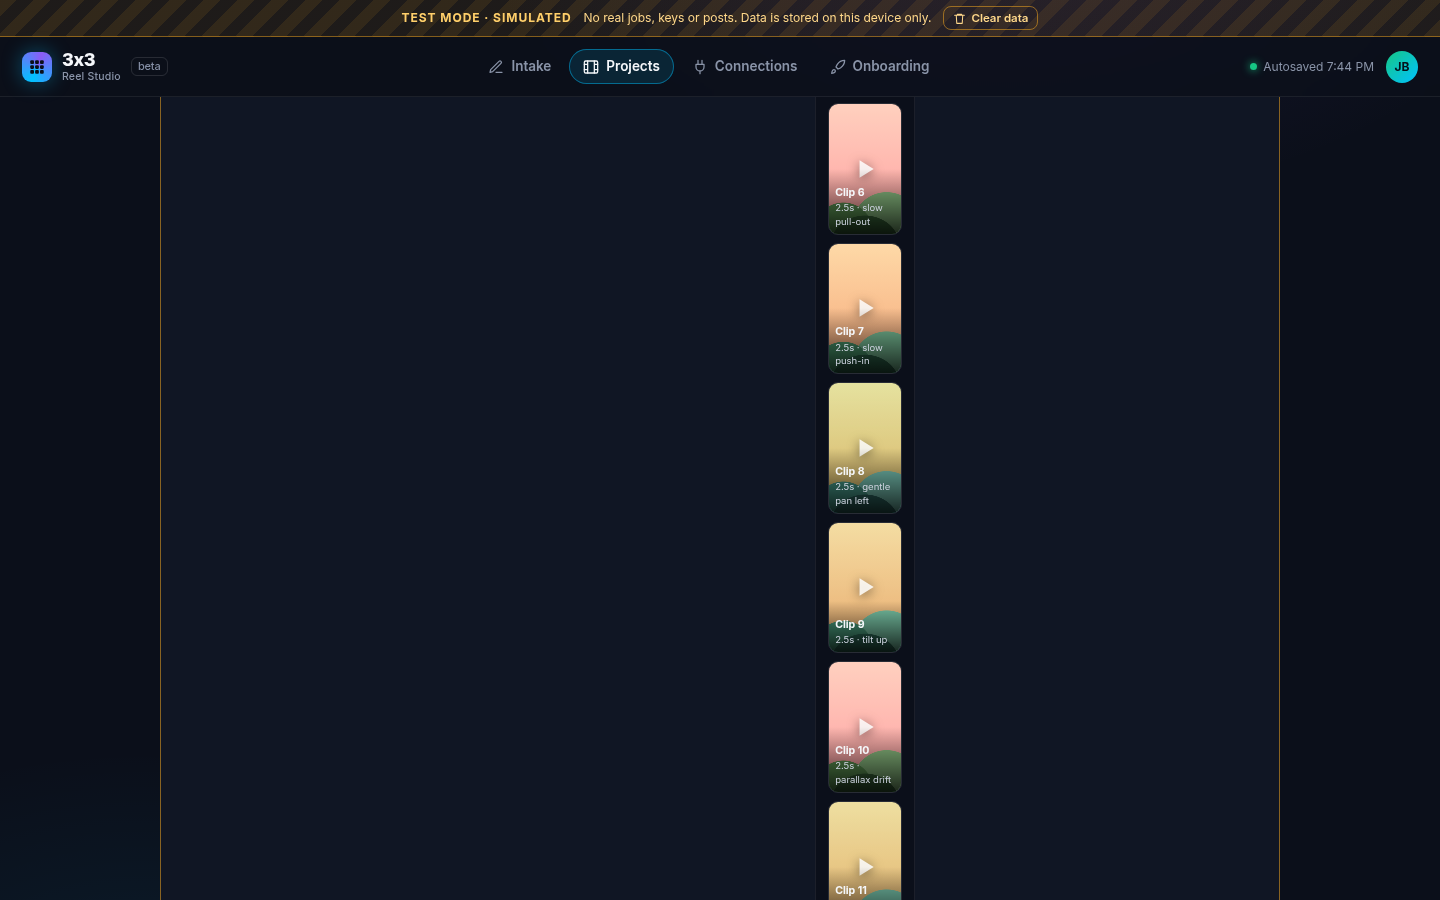
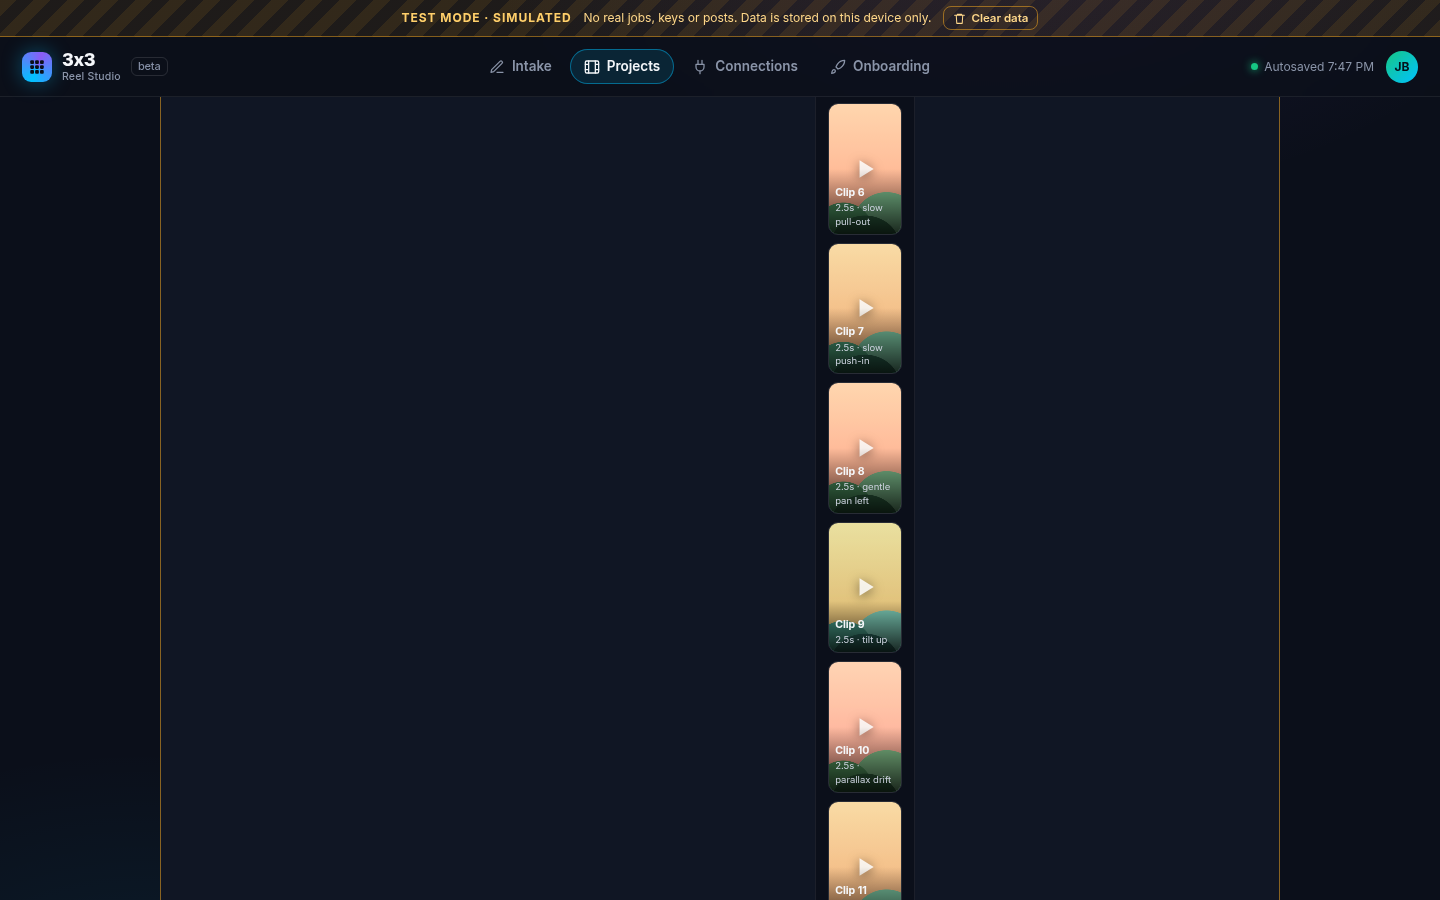
Signing copy: key set signed by two offline 3x3 root keys (primary + backup), still marked planned

diff --git a/js/pages.js b/js/pages.js
@@ -173,7 +173,7 @@ function connections(focus){
   (ws.length ? `<div class="warnbox big"><div class="wh">${ic('warn')}<b>${ws.length} required connection${ws.length>1?'s':''} missing for your current intake</b><span>Steps that need them will stop at "Needs you".</span></div>${ws.map(w => `<a class="wline" href="#/connections?focus=${w.id}"><span>${esc(w.text)}</span><small>${esc(w.why)}</small><b>Fix ${ic('ar')}</b></a>`).join('')}</div>`
     : `<div class="okline">${ic('check')}Everything your current intake needs is connected.</div>`) +
   `<div class="infobox">${ic('shield')}<div><b>Test mode.</b> Everything here is simulated and stored on this device only. The routine key field accepts only fake values that start with <code>test_</code>. The signing secret is a fake made in your browser and shown once. Social Connect buttons simulate the official sign-in popup.<br>
-    <b>In production</b> the routine key and social logins go to 3x3's server, encrypted (Vault). <b>Planned, not built yet</b> (this test site only simulates it): 3x3's server signs every job it sends to your bot with its own private key (Ed25519), which never leaves the server. Your routine checks that signature against a list of 3x3's public keys, and that list is itself signed by an offline 3x3 root key built into the template, so a fake job is rejected. Your signing secret (<code>THREEX3_SIGNING_SECRET</code>) is only used the other way: your routine signs its replies to 3x3 with it. Publishing runs on 3x3's server through the official APIs only (YouTube Data API, Meta Graph API, TikTok Content Posting API).</div></div>` +
+    <b>In production</b> the routine key and social logins go to 3x3's server, encrypted (Vault). <b>Planned, not built yet</b> (this test site only simulates it): 3x3's server signs every job it sends to your bot with its own private key (Ed25519), which never leaves the server. Your routine checks that signature against a list of 3x3's public keys, and that list is itself signed by two offline 3x3 root keys (a primary and a backup) built into the template, so a fake job is rejected. Your signing secret (<code>THREEX3_SIGNING_SECRET</code>) is only used the other way: your routine signs its replies to 3x3 with it. Publishing runs on 3x3's server through the official APIs only (YouTube Data API, Meta Graph API, TikTok Content Posting API).</div></div>` +
   `<h2 class="sect">${ic('bolt')}Worker (your Grok Bot)</h2>` + workerCard(focus) +
   `<div class="cgrid" style="margin-top:12px">${M3.CONNS.filter(c => c.kind === 'botsecret').map(c => botSecretCard(c, focus)).join('')}</div>` +
   `<h2 class="sect">${ic('globe')}Connect where you publish</h2>

diff --git a/js/adapter.js b/js/adapter.js
@@ -30,8 +30,8 @@
      2. PLANNED (architecture v2.4 §2.1, not built; simulated here): a server
         function signs the dispatch envelope with the app's Ed25519 private key
         (Vault, never leaves the server) and POSTs it to the user's routine
-        webhook. The routine verifies it against a key set signed by an offline
-        root key pinned in the template. The browser never signs anything.
+        webhook. The routine verifies it against a key set signed by two offline
+        3x3 root keys (a primary and a backup) built into the template. The browser never signs anything.
      3. The routine calls back with envelopes signed (HMAC) with the per-user
         signing secret THREEX3_SIGNING_SECRET (Edge Function checks it)
         to set status/output; the UI gets it through Realtime -> subscribe().

diff --git a/README.md b/README.md
@@ -30,7 +30,7 @@ Front end for Johnny Bodegas's video-automation app. **Static, simulated, noinde
 |---|---|
 | Intake logic, research taxonomy/styles (pack v1.2), rules compilation, requirement and warning computation, input validation/escaping, hashing, versioning, localStorage persistence, JSON export/import | All jobs. `js/simulator.js` stands in for the user's Grok Bot worker: script/stills/clips/final are placeholders. Worker test job, signing secret (fake, generated locally), OAuth popups, connection statuses. Spend ledger (estimates). Download returns a manifest instead of an MP4. Publishing never posts anything. |
 
-**Secrets:** 3x3 holds no API keys. xAI and ElevenLabs keys and `THREEX3_SIGNING_SECRET` live in each user's Grok Bot. The routine key field is simulated (only fake `test_` values; nothing real-looking is ever stored). **Planned for production (not built yet):** job signing: 3x3's server signs each job sent to the routine with an Ed25519 key that never leaves the server, the routine checks it against a public-key list signed by an offline root key pinned in the template, and the per-user signing secret signs only the routine's replies back to 3x3; routine key and OAuth tokens encrypted server-side, and **approvals/hash locks, rule-bundle enforcement and the spend-cap ledger all enforced server-side**. In this test build they run in the browser and can be tampered with via devtools, which is acceptable only because nothing real happens. No analytics, no external requests.
+**Secrets:** 3x3 holds no API keys. xAI and ElevenLabs keys and `THREEX3_SIGNING_SECRET` live in each user's Grok Bot. The routine key field is simulated (only fake `test_` values; nothing real-looking is ever stored). **Planned for production (not built yet):** job signing: 3x3's server signs each job sent to the routine with an Ed25519 key that never leaves the server, the routine checks it against a public-key list signed by two offline 3x3 root keys (a primary and a backup) built into the template, and the per-user signing secret signs only the routine's replies back to 3x3; routine key and OAuth tokens encrypted server-side, and **approvals/hash locks, rule-bundle enforcement and the spend-cap ledger all enforced server-side**. In this test build they run in the browser and can be tampered with via devtools, which is acceptable only because nothing real happens. No analytics, no external requests.
 
 ## Architecture / swap points
 - `js/adapter.js`: **the data adapter (swap point)**. `LocalAdapter` uses localStorage today. Implement `SupabaseAdapter` with the same interface: `projects` and `jobs` tables, Realtime for `subscribe()`, and a server function that (planned) signs each dispatch with the app's Ed25519 key and POSTs it to the user's routine webhook; callbacks are signed with the per-user signing secret. Secrets stay in each user's Grok Bot secret store. The schema is in the file header.
